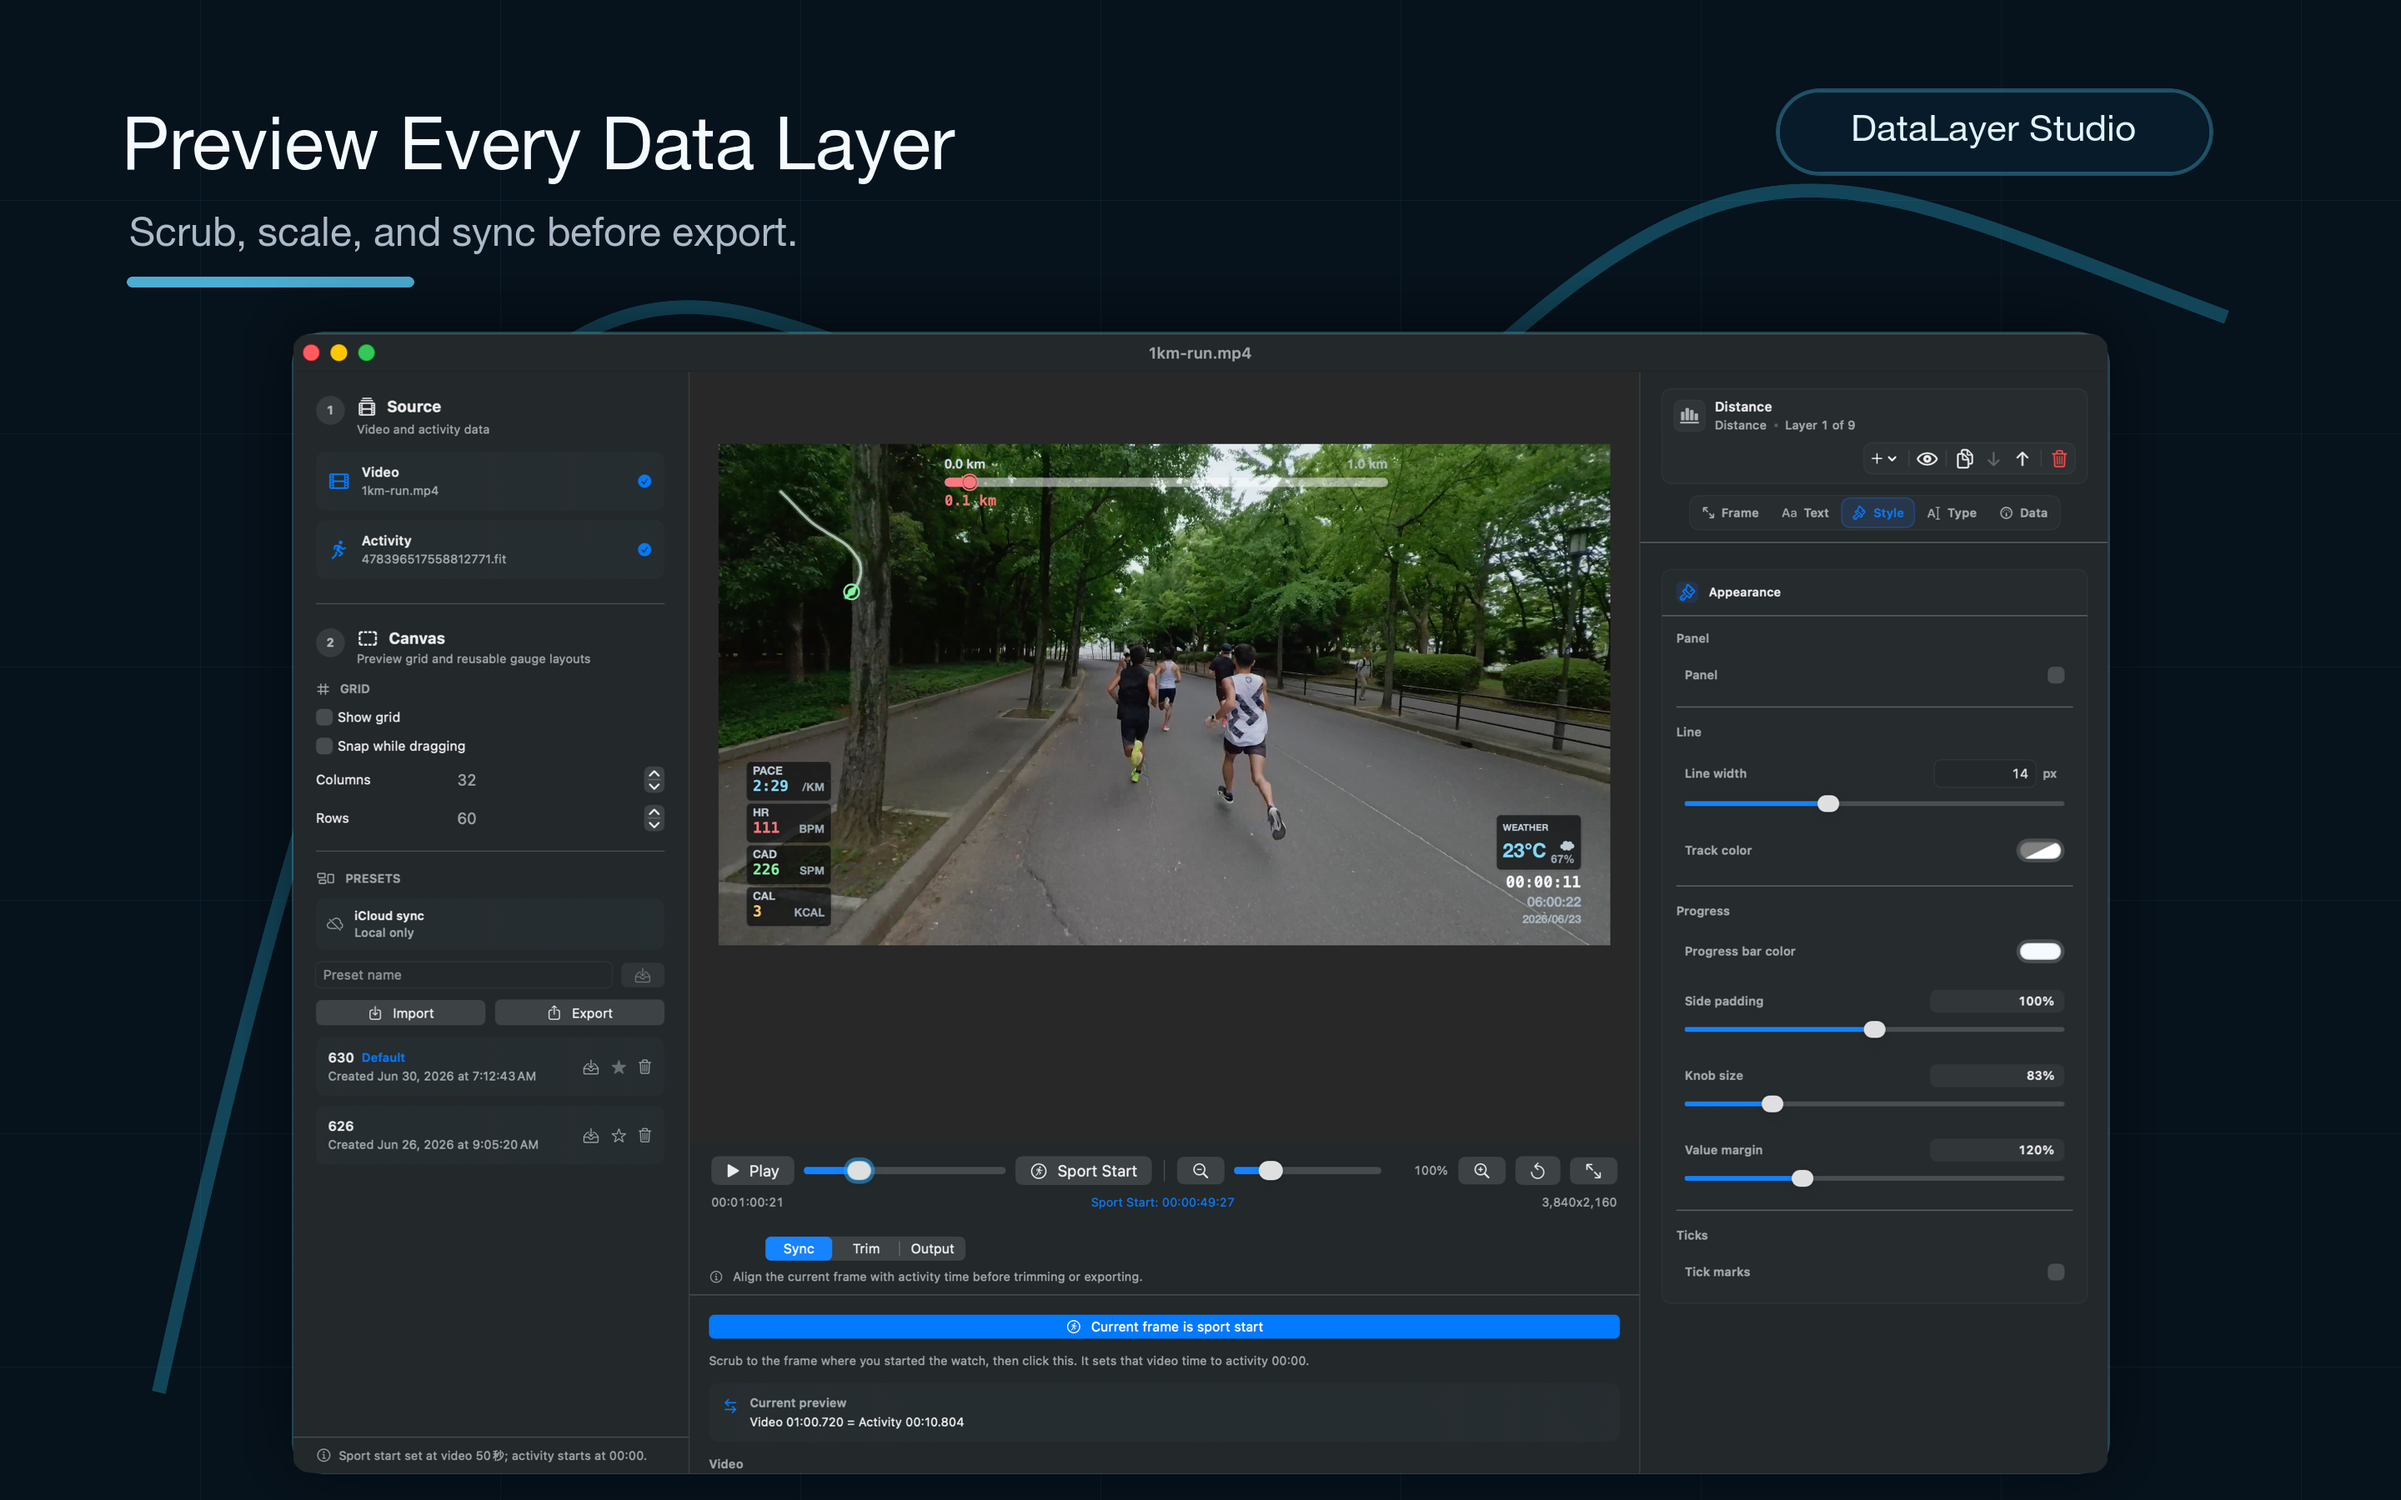
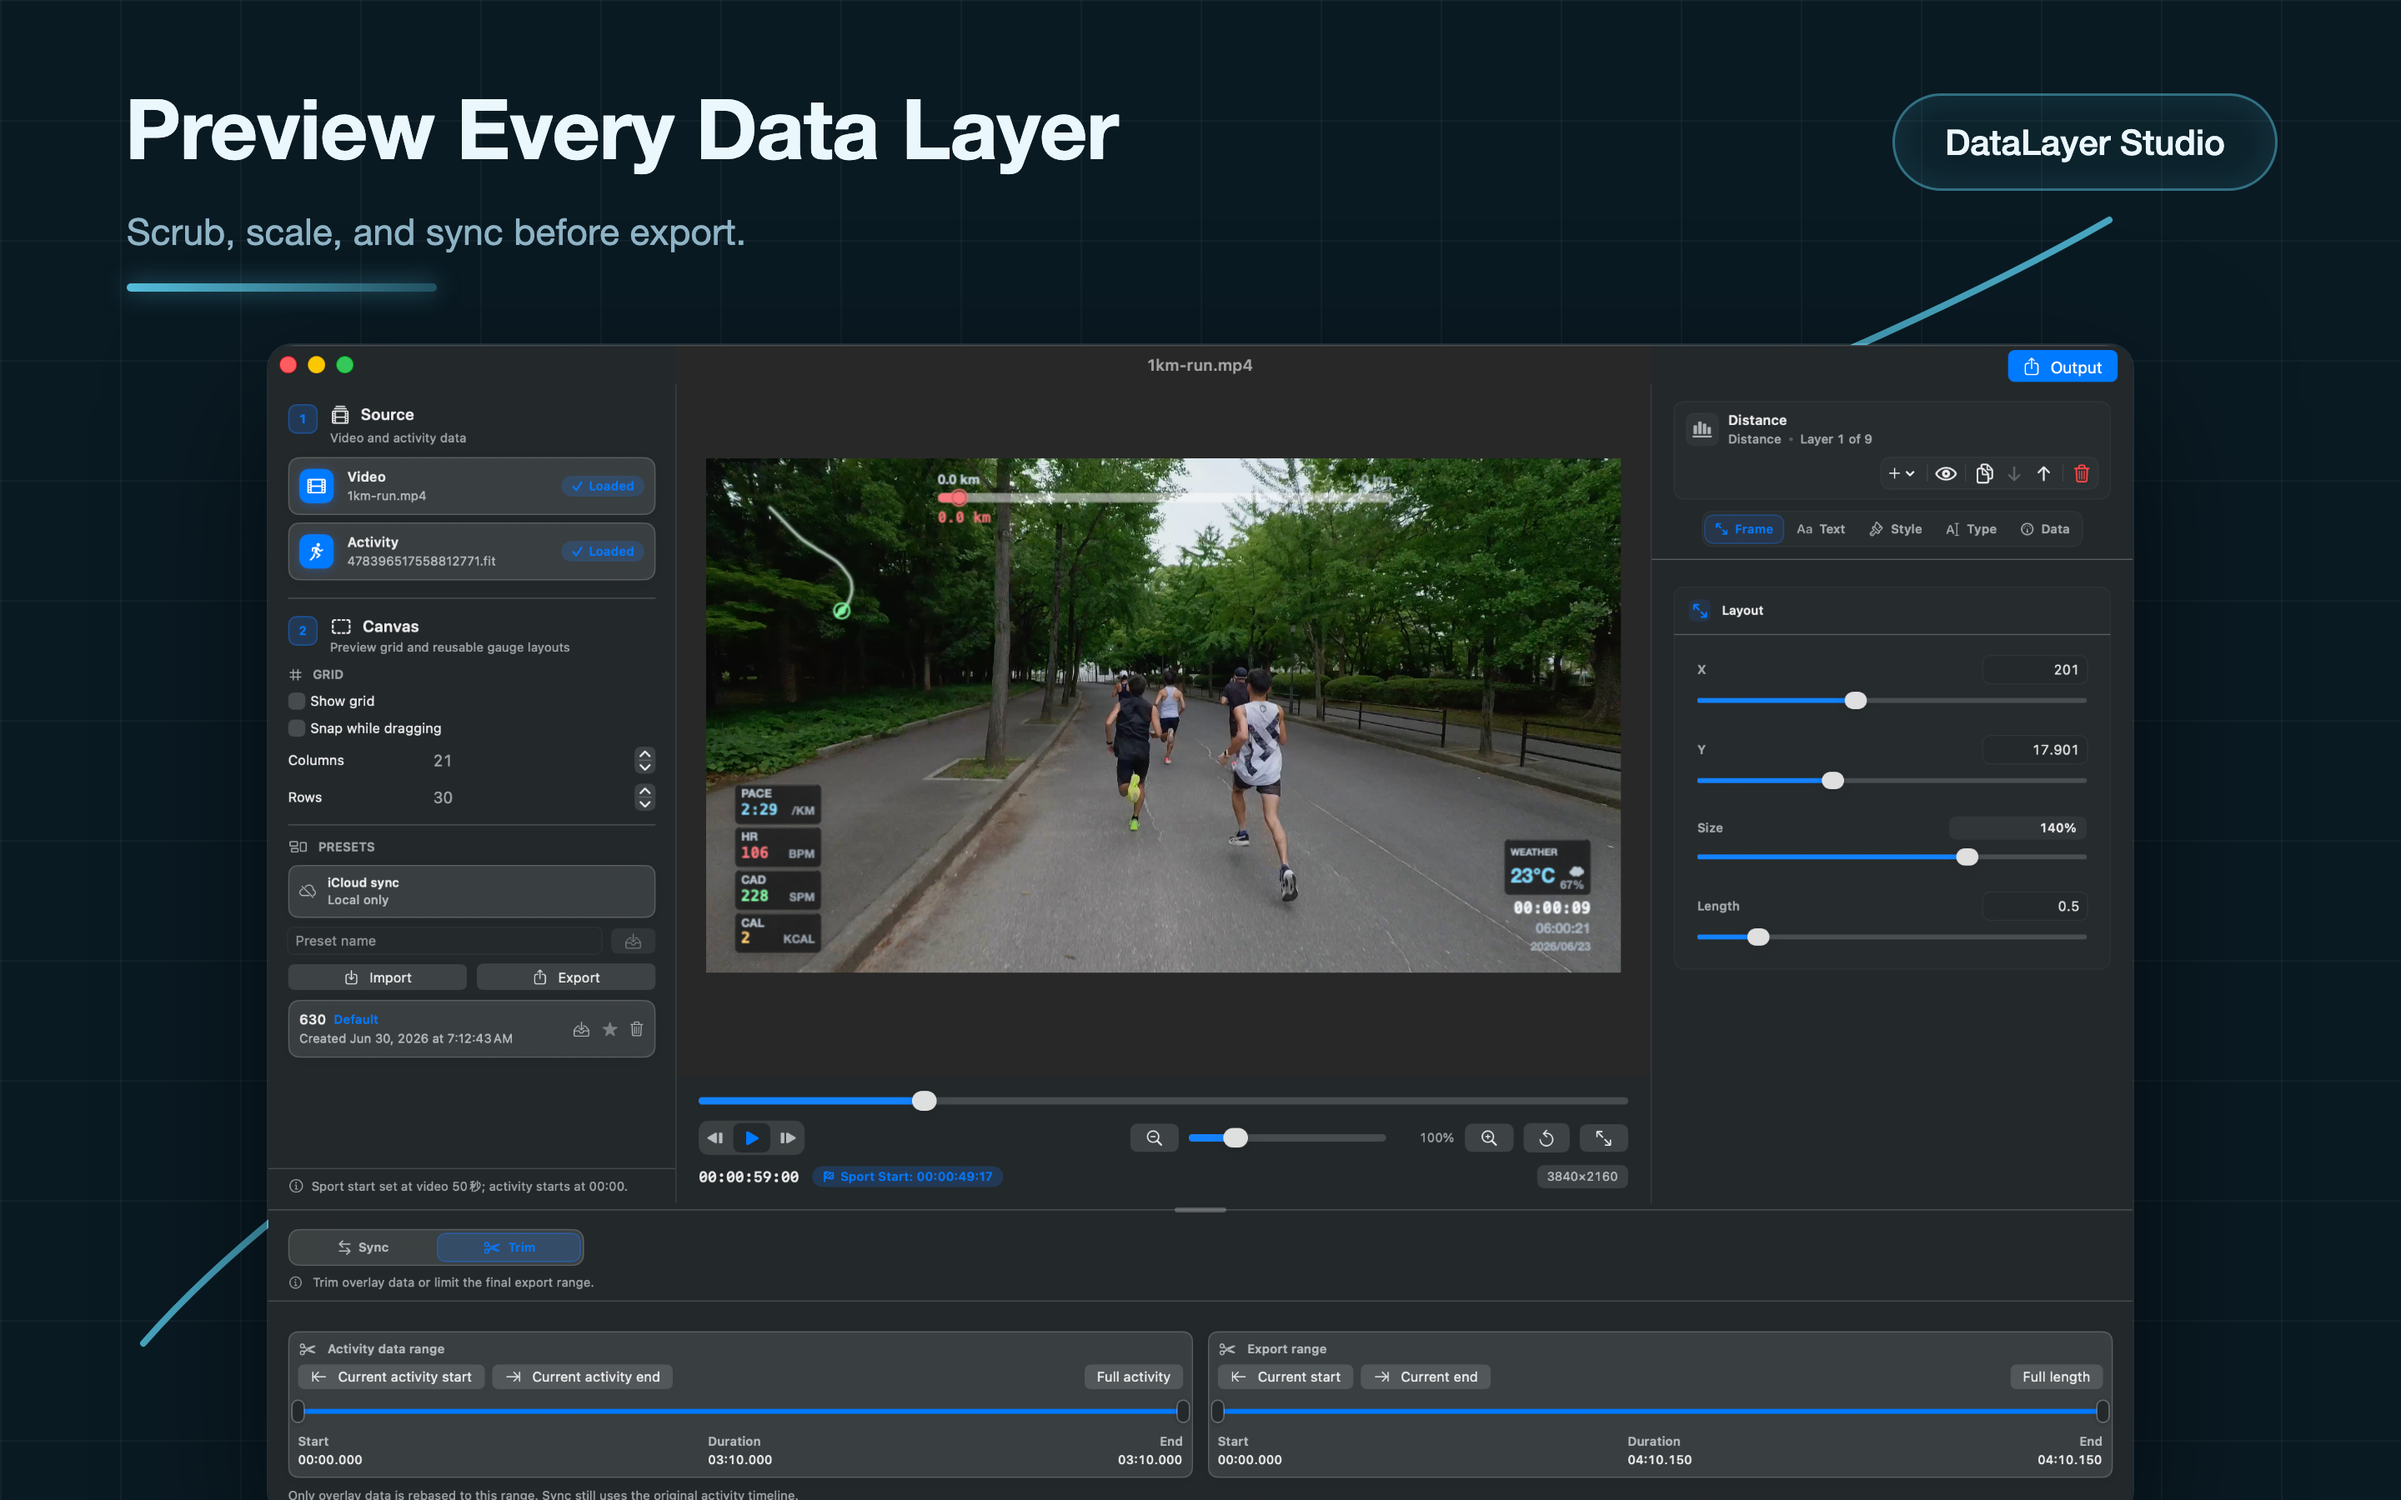
README 中英文截图更新到 0.2.0 界面
- 英文 README 首图 app-showcase.png 替换为 0.2.0 en-US 展示图；功能三图表指向 assets/appstore/v0.2.0/en-US
- 中文 README 首图与功能三图表指向 assets/appstore/v0.2.0/zh-Hans

diff --git a/README.zh-CN.md b/README.zh-CN.md
@@ -30,7 +30,7 @@
 </p>
 
 <p align="center">
-  <img src="assets/appstore/v0.1.6/zh-Hans/desktop@2x/01-preview-overlay.png" alt="DataLayer Studio 编辑器界面，展示配速、心率、步频与轨迹等数据浮层与跑步素材实时同步预览" width="100%">
+  <img src="assets/appstore/v0.2.0/zh-Hans/desktop@2x/01-preview-overlay.png" alt="DataLayer Studio 编辑器界面，展示配速、心率、步频与轨迹等数据浮层与跑步素材实时同步预览" width="100%">
 </p>
 
 <p align="center">
@@ -102,7 +102,7 @@ DataLayer Studio 可以把跑步运动数据做成清爽的视频数据层，适
 
 | 实时预览 | 排布浮层 | 导出透明浮层 |
 | --- | --- | --- |
-| <img src="assets/appstore/v0.1.6/zh-Hans/desktop/01-preview-overlay.png" alt="DataLayer Studio 实时浮层预览" width="100%"> | <img src="assets/appstore/v0.1.6/zh-Hans/desktop/02-arrange-gauges.png" alt="DataLayer Studio 浮层排布界面" width="100%"> | <img src="assets/appstore/v0.1.6/zh-Hans/desktop/03-export-alpha.png" alt="DataLayer Studio 透明浮层导出界面" width="100%"> |
+| <img src="assets/appstore/v0.2.0/zh-Hans/desktop/01-preview-overlay.png" alt="DataLayer Studio 实时浮层预览" width="100%"> | <img src="assets/appstore/v0.2.0/zh-Hans/desktop/02-arrange-gauges.png" alt="DataLayer Studio 浮层排布界面" width="100%"> | <img src="assets/appstore/v0.2.0/zh-Hans/desktop/03-export-alpha.png" alt="DataLayer Studio 透明浮层导出界面" width="100%"> |
 
 ## 快速开始
 

diff --git a/README.md b/README.md
@@ -112,7 +112,7 @@ burned in.
 
 | Live overlay preview | Arrange gauges | Export alpha overlay |
 | --- | --- | --- |
-| <img src="assets/appstore/v0.1.6/en-US/desktop/01-preview-overlay.png" alt="DataLayer Studio live overlay preview" width="100%"> | <img src="assets/appstore/v0.1.6/en-US/desktop/02-arrange-gauges.png" alt="DataLayer Studio gauge arrangement screen" width="100%"> | <img src="assets/appstore/v0.1.6/en-US/desktop/03-export-alpha.png" alt="DataLayer Studio alpha overlay export screen" width="100%"> |
+| <img src="assets/appstore/v0.2.0/en-US/desktop/01-preview-overlay.png" alt="DataLayer Studio live overlay preview" width="100%"> | <img src="assets/appstore/v0.2.0/en-US/desktop/02-arrange-gauges.png" alt="DataLayer Studio gauge arrangement screen" width="100%"> | <img src="assets/appstore/v0.2.0/en-US/desktop/03-export-alpha.png" alt="DataLayer Studio alpha overlay export screen" width="100%"> |
 
 ## Quick start
 
